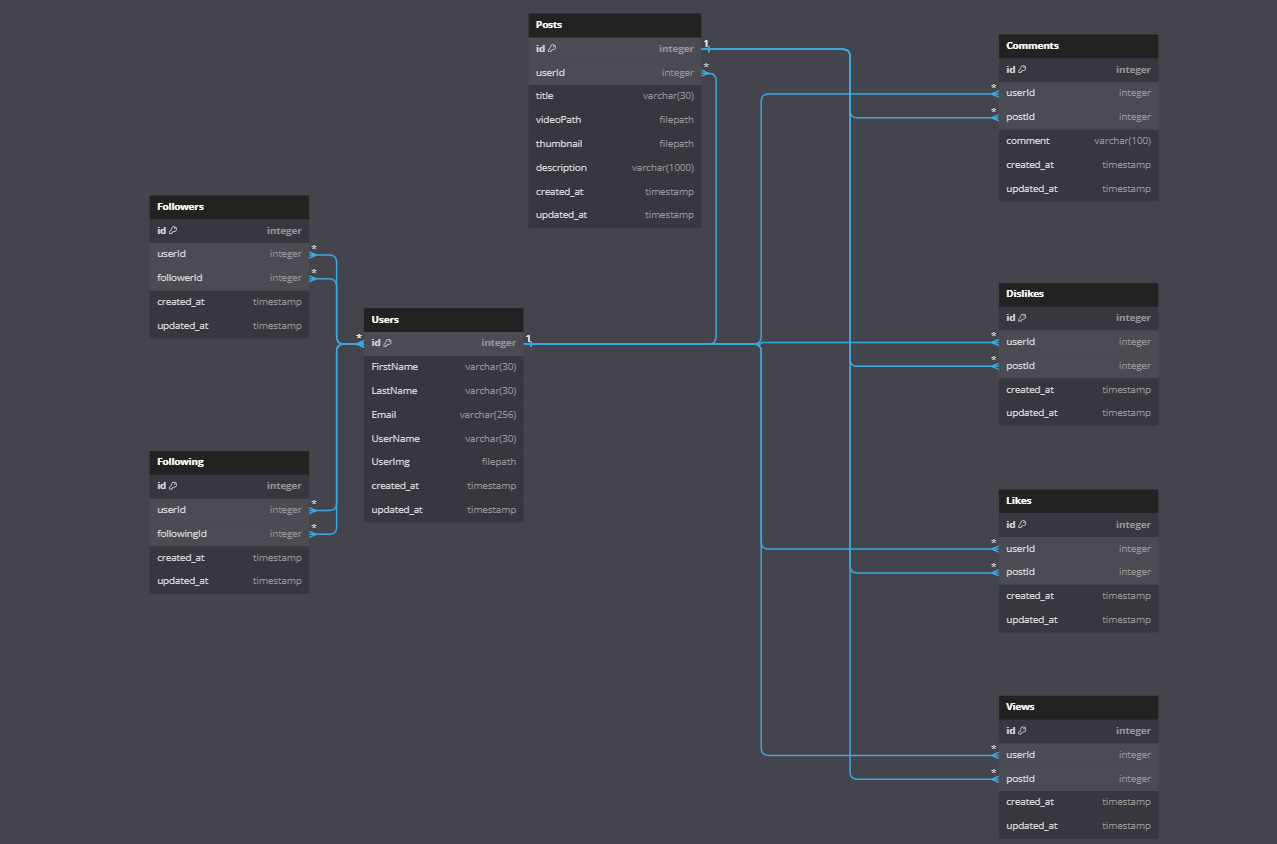
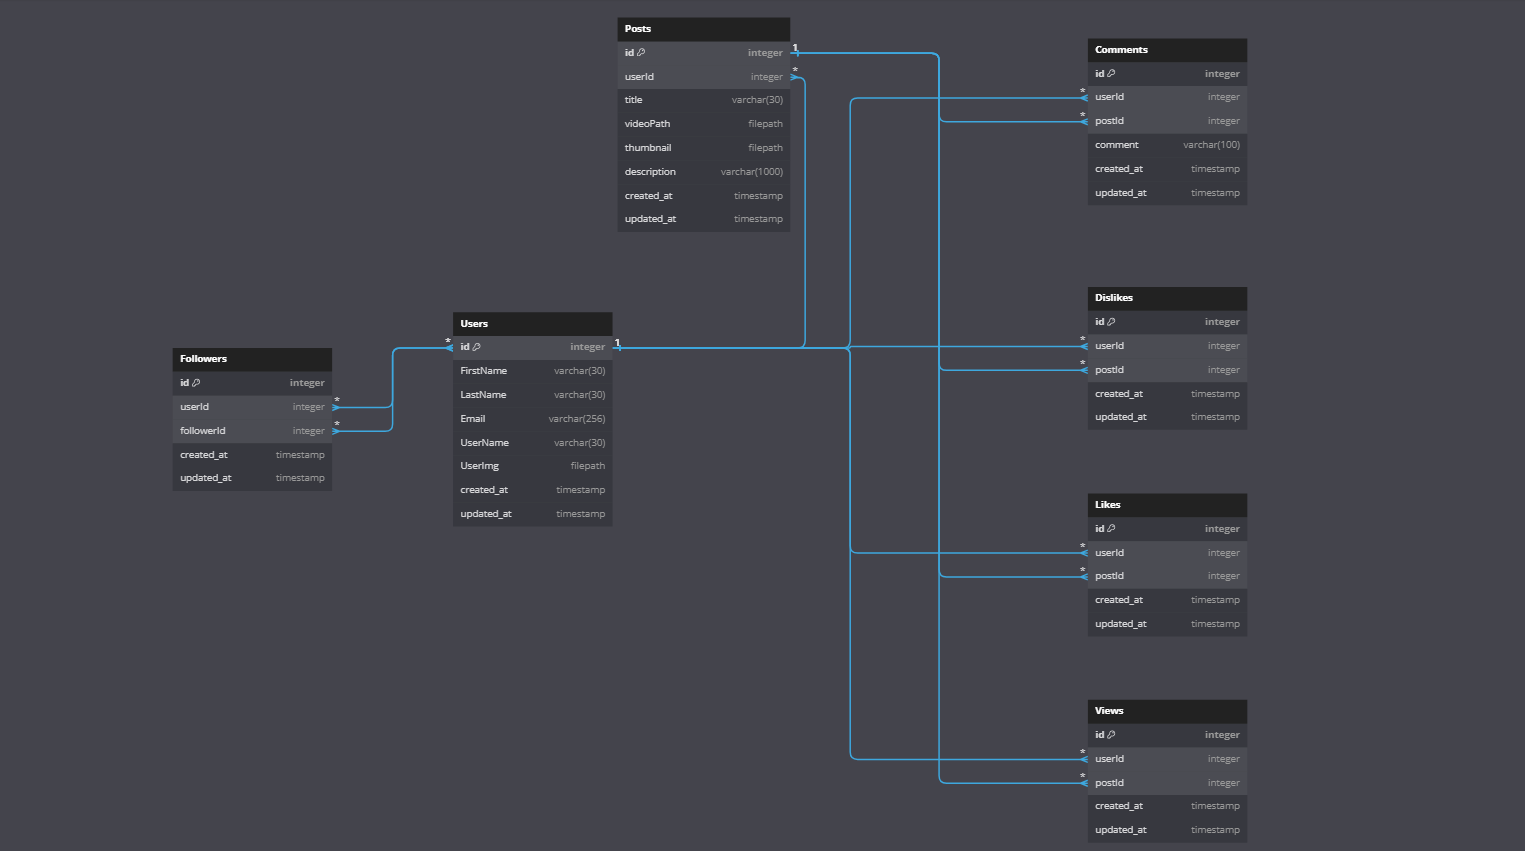
updated DB schema
Removed following table from db schema to match project database

diff --git a/README.md b/README.md
@@ -108,13 +108,4 @@ Table Followers {
 }
 
 
-Table Following {
-  id integer [primary key]
-  userId integer //[Foreign Key referencing Users.id]
-  followingId integer //[Foreign Key referencing Users.id]
-  created_at timestamp
-  updated_at timestamp
-}
-
 ```
-
